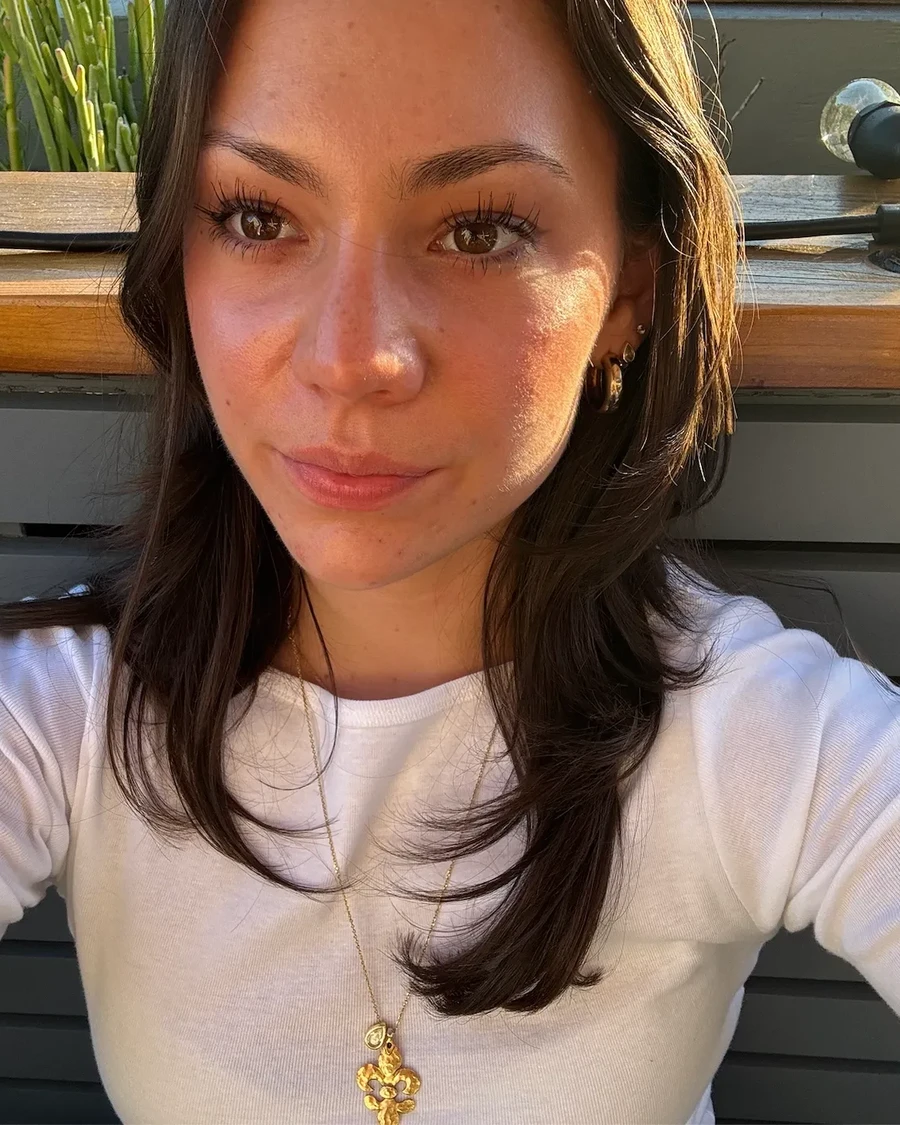
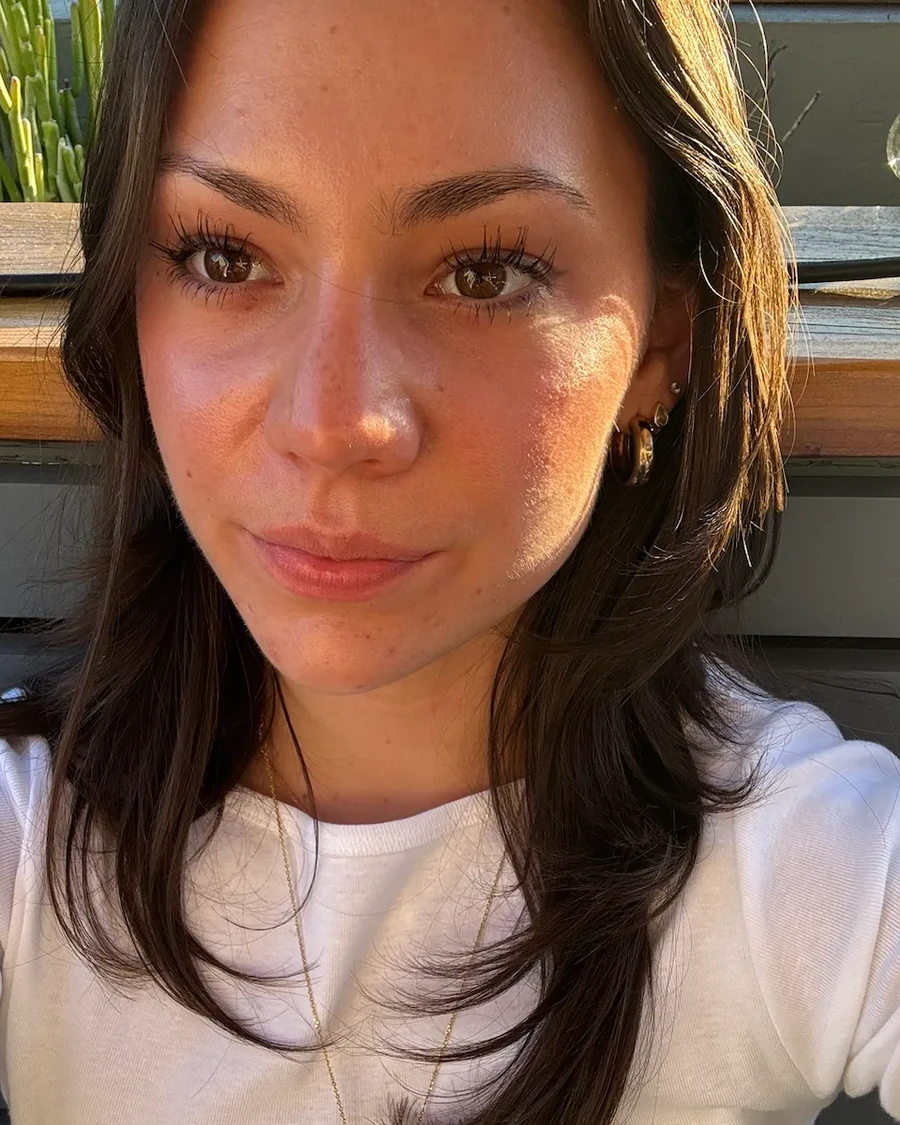
Crop hero photo tighter to face
Reduce visible shirt and zoom closer to the face in the hero
portrait, and cache-bust its URL so the new crop loads immediately.

Claude-Session: https://claude.ai/code/session_01RQ6tGXYoVDihGV7VxVWEie

diff --git a/index.html b/index.html
@@ -55,7 +55,7 @@
         </div>
         <div class="hero__media">
           <div class="hero__photo-frame">
-            <img src="assets/grace-photo-hero.webp?v=1" alt="Portrait of Grace McGlashan" class="hero__photo" />
+            <img src="assets/grace-photo-hero.webp?v=2" alt="Portrait of Grace McGlashan" class="hero__photo" />
           </div>
           <span class="hero__tag hero__tag--one">Tulane '27</span>
           <span class="hero__tag hero__tag--two">Mill Valley, CA</span>
